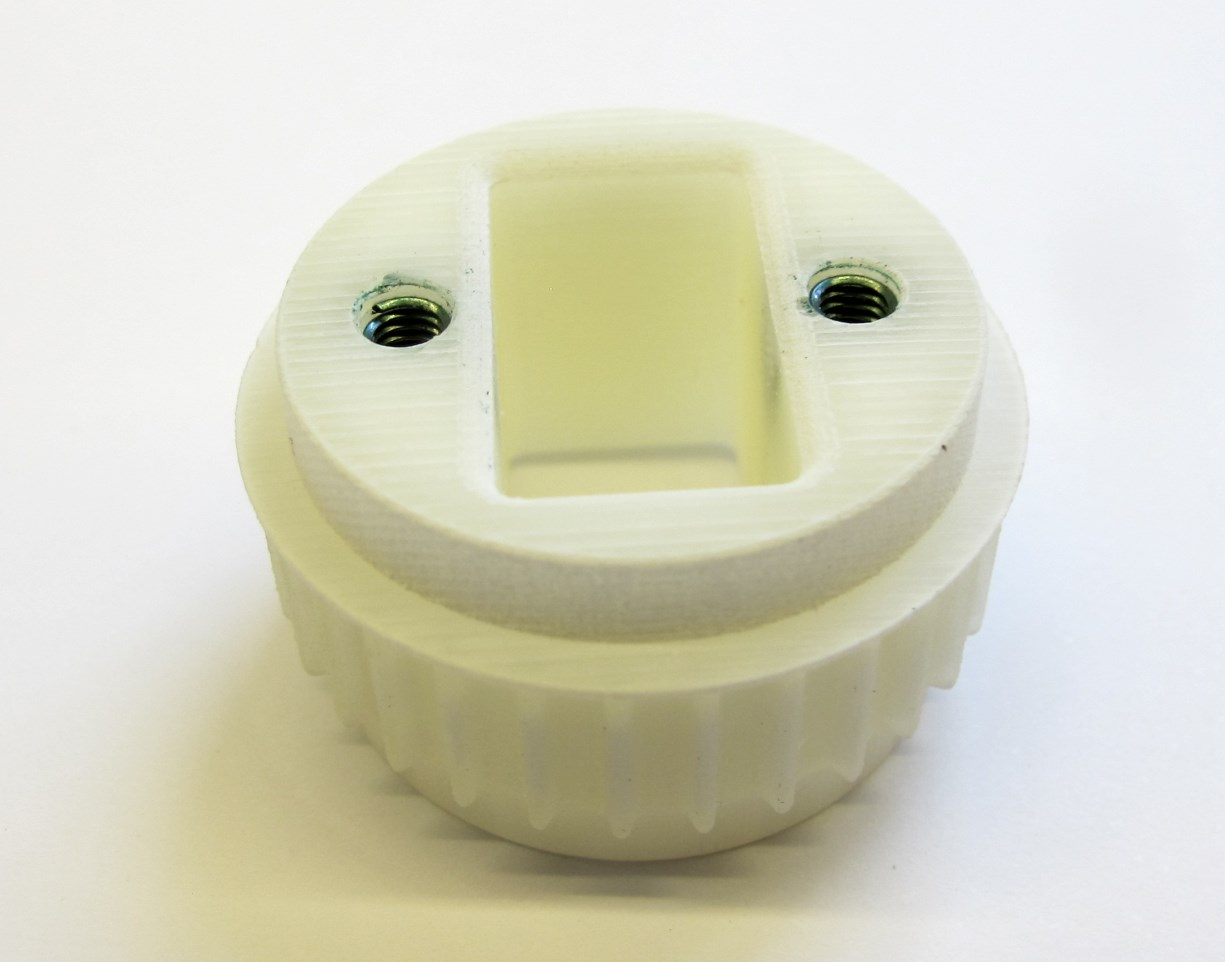
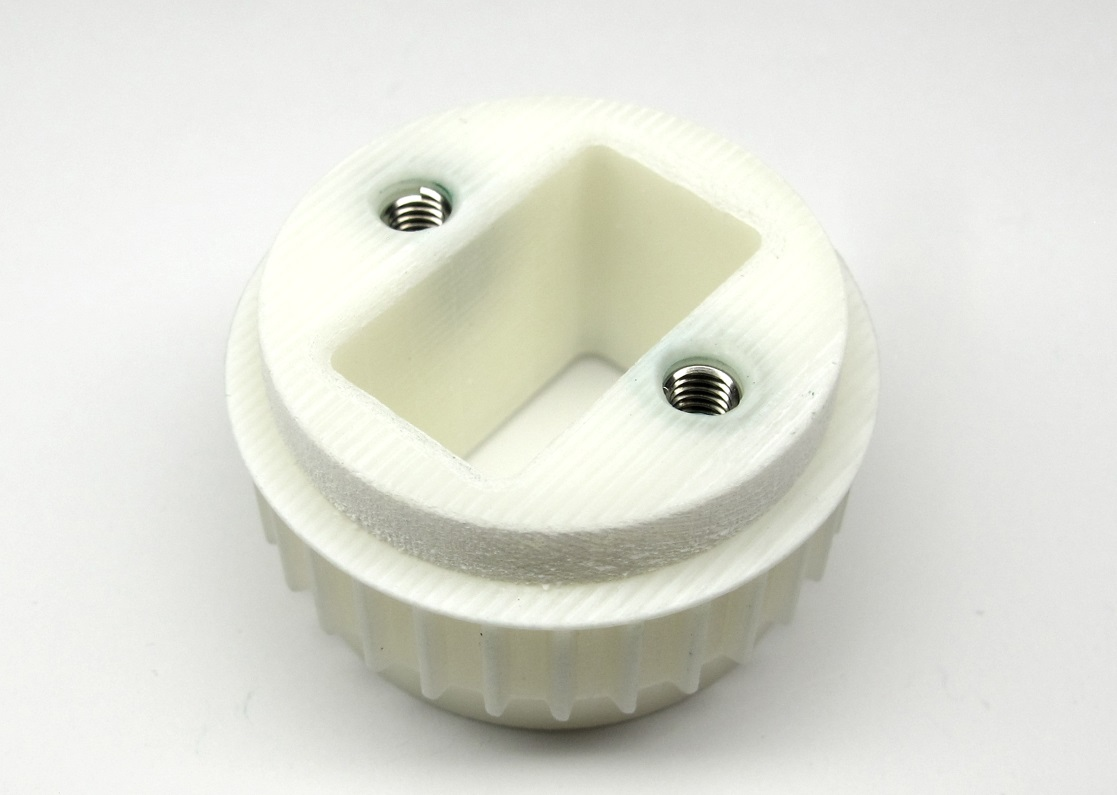
Updating documentation

diff --git a/mechanics/actuator_module_v1/details/details_output_pulley_preparation.md b/mechanics/actuator_module_v1/details/details_output_pulley_preparation.md
@@ -1,63 +1,112 @@
-Details Output Pulley Preparation
-=======================
+# Details Output Pulley Preparation
 
-<img src="../images/output_pulley_preparation_1.jpg" width="400"> <br>*Output pulley - oversized diameter.*
+<img src="../images/output_pulley_preparation_2_1.jpg" width="400"> <br>*Starting Point: Output pulley and M3 Helicoil Inserts.*
 
-Description
------------
+<img src="../images/output_pulley_preparation_9.jpg" width="400"> <br>*End Result: Output pulley prepared for installation.*
 
-The dimensions of 3d printed parts can vary quite a bit depending on the machine, the printing technology and the material.  
+## Description
+
+* this page describes how to prepare the output pulley for the brushless actuator modules
+* the shaft diameters of the output pulley are adjusted to fit the bearings <br> [-> Adjusting the Output Shaft Diameters](#adjusting-the-output-shaft-diameters)
+* two Helicoil thread inserts are installed in the mounting holes of the output pulley <br> [-> Installing Helicoil Thread Inserts](#installing-helicoil-thread-inserts)
+* **Exeception:** If you are preparing an output pulley for a Hip AA actuator module the helicoils shouldn't be installed [-> Pulley for Hip AA Actuator Module](#pulley-for-hip-aa-actuator-module)
+
+
+* More information on the 3d printing: [Details 3d Printed Parts](details_3d_printed_parts.md#details-3d-printed-parts)  
+* [STL File - Output Pulley](../stl_files/transmission_pulley_at3_t30_output.STL)
+
+## Adjusting the Output Shaft Diameters
+
+The dimensions of 3d printed parts can vary quite a bit depending on the printer, the printing technology and the material.  
 That's why we print the diameters that has to fit the bearings a bit oversize and machine the part to the right diameter on a lathe.
 
-## Pulley for Hip AA Actuator module
+<img src="../images/output_pulley_preparation_1.jpg" width="300"> <br>*Output pulley - oversized diameter.*
 
-<img src="../images/hip_aa_output_pulley.png" width="400"> <br>*Hip AA Output Pulley - don't install helicoils*
+<img src="../images/output_pulley_preparation_1_1.jpg" width="300"> <br>*Output bearings - dimensions: 32mm x 25mm x 4mm.*
 
-Instructions
--------------
+<img src="../images/collet_1.jpg" width="300"> <br>*A 25mm collet helps with clamping the output pulley.*  
 
-<img src="../images/collet_1.jpg" width="400"> <br>*A 25mm collet helps with clamping the output pulley.*  
+<img src="../images/lathe_1.jpg" width="300"> <br>*Place the pulley on the lathe and clamp gently on one of the output shafts.*  
 
-<img src="../images/lathe_1.jpg" width="400"> <br>*Place the pulley on the lathe and clamp gently on one of the flanges.*  
+<img src="../images/lathe_3.jpg" width="300"> <br>*Use a cutting tool with a sharp edge.*
 
-<img src="../images/lathe_3.jpg" width="400"> <br>*Use a cutting tool with a sharp edge.*
+<img src="../images/lathe_2.jpg" width="300"> <br>*Reduce the shaft diameter in small steps and check the fit with the output bearing.*  
 
-<img src="../images/lathe_2.jpg" width="400"> <br>*Reduce the flange diameter in small steps and check the fit with the output bearing.*  
+<img src="../images/lathe_4.jpg" width="300"> <br>*There should be a light press-fit between the bearing and the pulley.<br> You should be able to install and remove the bearing by hand with moderate force.<br> When the diameter is correct - turn the pulley around and repeat the same steps for the opposite side.*  
 
-<img src="../images/lathe_4.jpg" width="400"> <br>*There should be a light press-fit between the bearing and the pulley.<br> You should be able to install and remove the bearing by hand with moderate force.<br> When the diameter is correct - turn the pulley around and repeat the same steps for the opposite side.*  
+---
+## Pulley for Hip AA Actuator Module
 
-<img src="../images/output_pulley_preparation_3.jpg" width="600"> <br>*Output Pulley and M3 Helicoil Tools (Helicoil tap, insertion tool and tang break-off tool)*  
+<img src="../images/hip_aa_output_pulley.png" width="400"> <br>*Exception: Hip AA Output Pulley - the fasteners go through the pulley.*
 
-<img src="../images/output_pulley_preparation_2.jpg" width="400"> <br>*Output Pulley AT3 T30 and M3 Helicoil inserts*  
+* the pulley for the Hip AA actuator modules is an exception
+* since the fasteners go through the pulley the helicoils mustn't be installed
+* increase the hole diameters to 3mm and don't install the Helicoil thread inserts
 
-<img src="../images/output_pulley_preparation_4.jpg" width="400"> <br>*The holes should have a diameter of about 3mm.<br> Increase the hole diamter with a 3mm drill if the holes are too tight.*
+<img src="../images/output_pulley_preparation_2_3.jpg" width="300"> <br>*Put a small chamfer on the mounting holes.*
 
-<img src="../images/output_pulley_preparation_5.jpg" width="400"> <br>*Tap both holes on the side with the flange using the Helicoil M3 tap.*
+<img src="../images/output_pulley_preparation_4_1.jpg" width="300"> <br>*Increase the diameter of the mounting holes using a 3mm drill bit.*
 
-<img src="../images/output_pulley_preparation_6.jpg" width="400"> <br>*Place a M3 6mm Helicoil threaded insert on the insertion tool.*
+<img src="../images/output_pulley_preparation_1_2.jpg" width="300"> <br>*The Hip AA Output Pulley is now ready for installation.*
 
-<img src="../images/output_pulley_preparation_7.jpg" width="400"> <br>*Insert the Helicoils with the insertion tool.<br> Make sure that the insert is about half a turn below the outer surface*
+**If you are preparing a Hip AA output pulley you should stop here and ignore all the following steps.**
 
-<img src="../images/output_pulley_preparation_8.jpg" width="400"> <br>*Remove both tangs using the tang break-off tool.<br> Make sure that the tangs don't stay inside of the part.*
+---
+## Installing Helicoil Thread Inserts
 
-<img src="../images/output_pulley_preparation_9.jpg" width="400"> <br>*The output pulley is now ready for installation.*
+<img src="../images/output_pulley_preparation_3.jpg" width="300"> <br>*Output Pulley, M3 Helicoils and Helicoil Tools.*  
 
-Authors
---------
-Felix Grimminger
+<img src="../images/output_pulley_preparation_2_1.png" width="400"> <br>*Make sure that the flange on the pulley faces upwards for all of the following steps.*
 
-License
--------
-BSD 3-Clause License
+<img src="../images/output_pulley_preparation_2_2.jpg" width="300"> <br>*45 degree chamfer tool and output pulley.*
 
-Copyright
------------
-Copyright (c) 2019, Max Planck Gesellschaft, New York University
+<img src="../images/output_pulley_preparation_2_3.jpg" width="300"> <br>*Put a small chamfer on the mounting holes.*
 
-More Information
-----------------
+<img src="../images/output_pulley_preparation_4_1.jpg" width="300"> <br>*The holes should have a diameter of about 2,9mm.<br>Drill through with a 3mm drill bit.<br>Drill with
+increasing drill diameters in steps of 0,1mm.<br>Increase the diameter of the holes until you reach a diameter of 3.3mm.*
+
+<img src="../images/output_pulley_preparation_4_2.jpg" width="300"> <br>*Clean the drill with a tooth brush if required.*
+
+<img src="../images/output_pulley_preparation_5_1.jpg" width="300"> <br>*Tap both holes using the Helicoil M3 tap.<br>The flange on the pulley has to point upwards as shown in the picture.*
+
+<img src="../images/output_pulley_preparation_5_2.jpg" width="300"> <br>*If the resistance increases carefully back out the tap and clean it with a tooth brush. <br>Continue until the Helicoil thread is fully cut.*
+
+<img src="../images/output_pulley_preparation_6_1.jpg" width="300"> <br>*Place a M3 Helicoil with a length of 6mm on the insertion tool.*
+
+<img src="../images/output_pulley_preparation_7_1.jpg" width="300"> <br>*Insert both Helicoils with the insertion tool.<br> Make sure that the end of the insert is about half a turn below the outer surface*
+
+<img src="../images/output_pulley_preparation_8_1.jpg" width="300"> <br>*Remove both tangs using the tang break-off tool.<br> Make sure that the tangs don't stay inside of the part.*
+
+<img src="../images/output_pulley_preparation_9.jpg" width="300"> <br>*The output pulley is now ready for installation.*
+
+---
+## Step-by-Step Instructions
+
+| Motor Preparation  | Motor Shaft Preparation | Encoder Preparation |Center Pulley Preparation|
+| --- | --- | --- | --- |
+| <a href="details_motor_preparation.md#details-motor-preparation"><img src="../images/motor_mod_1_1.jpg" width="200"></a>| <a href="details_motor_shaft_preparation.md#details-motor-shaft-preparation"><img src="../images/motor_shaft_preparation_18.jpg" width="200"></a>  | <a href="details_encoder_preparation.md#details-encoder-preparation"><img src="../images/encoder_1.jpg" width="200"></a>  |<a href="details_center_pulley_preparation.md#details-center-pulley-preparation"><img src="../images/pulley_preparation_1_1.jpg" width="200"></a> |
+
+| Output Pulley Preparation | Shell Preparation | Actuator Module Assembly |Actuator Module Testing|
+| --- | --- | --- | --- |
+| <a href="details_output_pulley_preparation.md#details-output-pulley-preparation"><img src="../images/output_pulley_preparation_9.jpg" width="200"></a>| <a href="details_shell_preparation.md#details-shell-preparation"><img src="../../leg_2dof_v1/images/shells_1.jpg" width="200"></a>  | <a href="details_actuator_module_assembly.md#details-actuator-module-assembly"><img src="../images/actuator_module_open_1.jpg" width="200"></a>  |<a href="details_actuator_module_testing.md#details-actuator-module-testing"><img src="../images/actuator_module_1.png" width="200"></a>
+
+---
+## More Information
 [Open Dynamic Robot Initiative - Webpage](https://open-dynamic-robot-initiative.github.io)  
-[Open Dynamic Robot Initiative - YouTube Channel](https://www.youtube.com/channel/UCx32JW2oIrax47Gjq8zNI-w)  
-[Hardware Overview](../../README.md)  
+[Open Dynamic Robot Initiative - YouTube Channel](https://www.youtube.com/channel/UCx32JW2oIrax47Gjq8zNI-w)   
+[Open Dynamic Robot Initiative - Forum](https://odri.discourse.group/categories)  
+[Open Dynamic Robot Initiative - Paper](https://arxiv.org/pdf/1910.00093.pdf)  
+[Hardware Overview](../../README.md#open-robot-actuator-hardware)  
 [Software Overview](https://github.com/open-dynamic-robot-initiative/open-dynamic-robot-initiative.github.io/wiki)  
 [Back to Actuator Module](../README.md)  
+[Back to Top of Page](#details-output-pulley-preparation)
+
+---
+## Authors
+Felix Grimminger
+
+## License
+BSD 3-Clause License
+
+## Copyright
+Copyright (c) 2019-2020, Max Planck Gesellschaft and New York University

diff --git a/mechanics/actuator_module_v1/details/details_encoder_preparation.md b/mechanics/actuator_module_v1/details/details_encoder_preparation.md
@@ -1,8 +1,8 @@
 # Details Encoder Preparation
 
-<img src="../images/encoder_mod_1.jpg" width="300"> <br>*Starting Point: Broadcom AEDT 9810 Encoder*
+<img src="../images/encoder_mod_1_1.jpg" width="400"> <br>*Starting Point: Encoder, wires, crimps and cable.*
 
-<img src="../images/encoder_mod_1_2.jpg" width="300"> <br>*End Result: Modified Encoder with extension wires and connector*
+<img src="../images/encoder_mod_1_2.jpg" width="400"> <br>*End Result: Modified Encoder with extension wires and connector*
 
 ## Description
 * this page describes how to prepare the encoder for the brushless actuator modules

diff --git a/mechanics/actuator_module_v1/details/details_center_pulley_preparation.md b/mechanics/actuator_module_v1/details/details_center_pulley_preparation.md
@@ -20,6 +20,7 @@
 * [STL File - Tool Center Pulley Protection](../stl_files/tool_center_pulley_protection.STL)
 * [STL File - Tool Center Pulley Assembly](../stl_files/tool_center_pulley_assembly.STL)
 
+
 ## Press-Fitting the Pulleys
 
 <img src="../images/pulley_preparation_1_2.jpg" width="300"> <br>*Apply a bit of Loctite 648 onto the internal tooth profile of the 3d printed pulley.*
